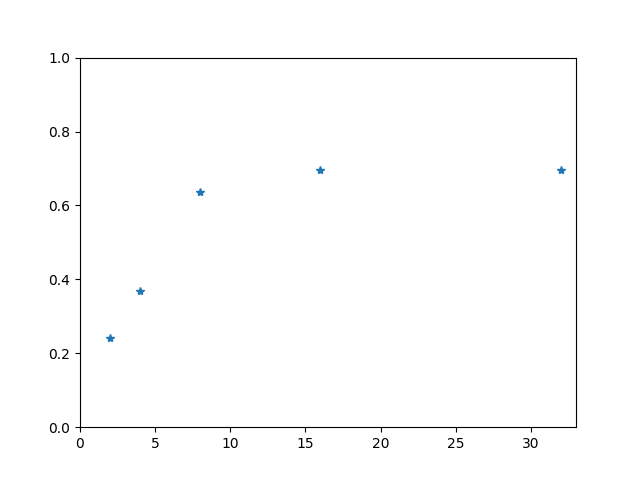
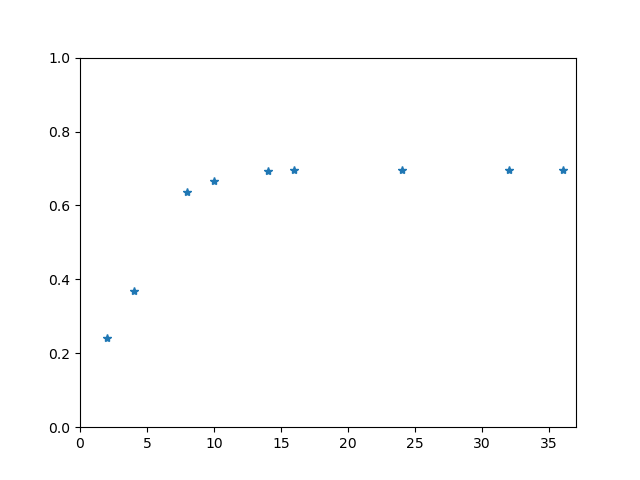
varianza'

diff --git a/error_functions.py b/error_functions.py
@@ -3,6 +3,7 @@ from sklearn.utils import resample
 from sklearn.model_selection import train_test_split
 from sklearn.model_selection import KFold
 import matplotlib.pyplot as plt
+from numpy import mean, var
 def distribute_data(train,test):
     train_data =[]
     test_data = []
@@ -16,19 +17,21 @@ def set_options(method_name):
     if(method_name == "knn"):
         return [1, 2, 4, 6, 8, 10, 12, 14]
     elif(method_name == "DT"):
-        return [2,4,8,16,32]
+        return [2, 4, 8, 10, 14, 16, 24, 32, 36]
     elif(method_name == "SVM"):
-        return [1e-2, 1e-3, 1e-4, 1e-5]
+        return [1e1, 1e-1, 1, 1e-2, 1e-3, 1e-4, 1e-5]
 
 
 def fold(data,kf, data_train, K, option, method):
-    accuracy = 0
+    accuracies = []
     for train_index, test_index in kf.split(data_train):
         train, test = data[train_index], data[test_index]
         train_data,test_data = distribute_data(train,test)
         temp = method(train,test,train_data,test_data, option)
-        accuracy+=temp
-    return accuracy/K
+        accuracies.append(temp)
+    promedio = mean(accuracies)
+    varianza = var(accuracies)
+    return [promedio, varianza]
 
 def plot(options,accuracies,method_name,type):
     plt.axis([0,options[len(options)-1]+1,0,1])
@@ -38,21 +41,24 @@ def plot(options,accuracies,method_name,type):
     plt.clf()
 
 def KFoldValidation(K,method): # K-folds N<K
-    
     data = read_data()
     method_name = method.__name__
     data_train, data_test = train_test_split(data, test_size=0.3)
     kf = KFold(n_splits=K)
     options = set_options(method_name)
     accuracies = []
+    variances = []
     errors = []
     for option in options:
-        temp_accuracy = fold(data, kf, data_train, K, option, method)
+        results = fold(data, kf, data_train, K, option, method)
         print(method_name, "KFold", " - option ", option)
-        print("Final estimator accuracy", temp_accuracy)
-        print("Final estimator error", 1-temp_accuracy)
-        accuracies.append(temp_accuracy)
-        errors.append(1-temp_accuracy)
+        print("Final estimator accuracy", results[0])
+        print("Final estimator error", 1-results[0])
+        accuracies.append(results[0])
+        variances.append(results[1])
+        errors.append(1-results[0])
+    if(method_name == "SVM"):
+        options = [1, 0, -1,- 2, -3, -4, -5]
     plot(options,accuracies,method_name,'Kfold')
     '''train_data,test_data = distribute_data(data_train,data_test)
     accuracy = method(data_train,data_test,train_data,test_data,"KFold",True)
@@ -61,15 +67,16 @@ def KFoldValidation(K,method): # K-folds N<K
     return [accuracies, errors]
     
 def sampling(data, data_train, K, option, method):
-    accuracy = 0
+    accuracies = []
     for rep in range(K):
         boot_sample = resample(data_train, n_samples=len(data_train))
         test_set = [x for x in data if x not in boot_sample]
         train_data,test_data = distribute_data(boot_sample,test_set)
         temp = method(boot_sample,test_set,train_data,test_data, option)
-        accuracy+=temp
-    return accuracy / K
-    
+        accuracies.append(temp)
+    promedio = mean(accuracies)
+    varianza = var(accuracies)
+    return [promedio, varianza]
 
 def bootstrap(K,method): # K-folds N<K
     data = read_data()
@@ -77,14 +84,19 @@ def bootstrap(K,method): # K-folds N<K
     data_train, data_test = train_test_split(data, test_size=0.3)
     options = set_options(method_name)
     accuracies = []
+    variances = []
     errors = []
     for option in options:
-        temp_accuracy = sampling(data, data_train, K, option, method)
+        results = sampling(data, data_train, K, option, method)
         print(method_name, "bootstrap" + " - option ", option)
-        print("Final estimator accuracy", temp_accuracy)
-        print("Final estimator error", 1-temp_accuracy)
-        accuracies.append(temp_accuracy)
-        errors.append(1-temp_accuracy)
+        print("Final estimator accuracy", results[0])
+        print("Final estimator variance", results[1])
+        print("Final estimator error", 1-results[0])
+        accuracies.append(results[0])
+        variances.append(results[1])
+        errors.append(1-results[0])
+    if(method_name == "SVM"):
+        options = [1, 0, -1,- 2, -3, -4, -5]
     plot(options,accuracies,method_name,'bootstrap')
 
     '''train_data,test_data = distribute_data(data_train,data_test)
